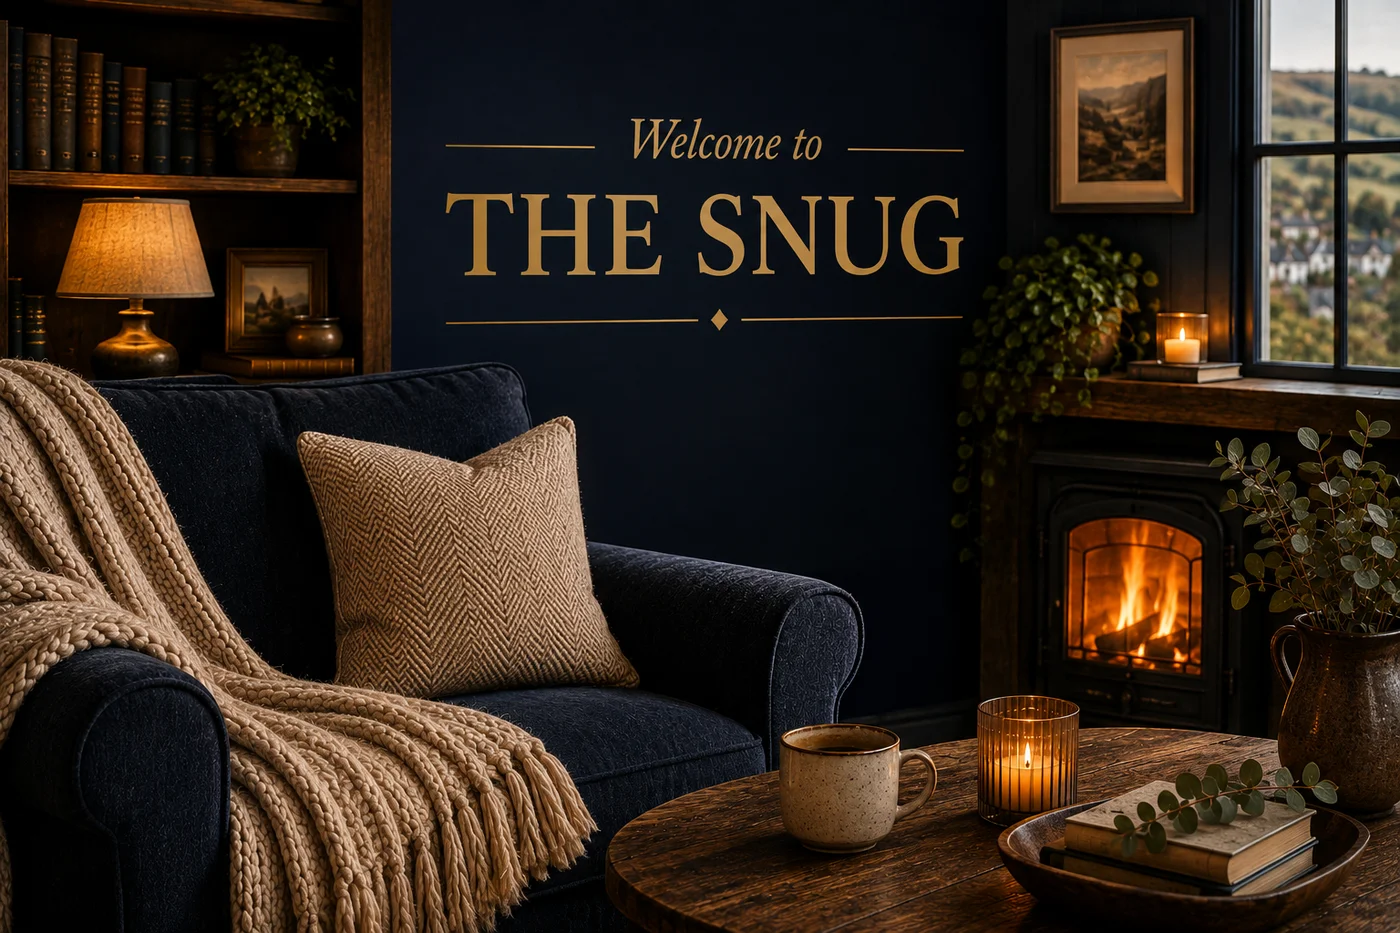
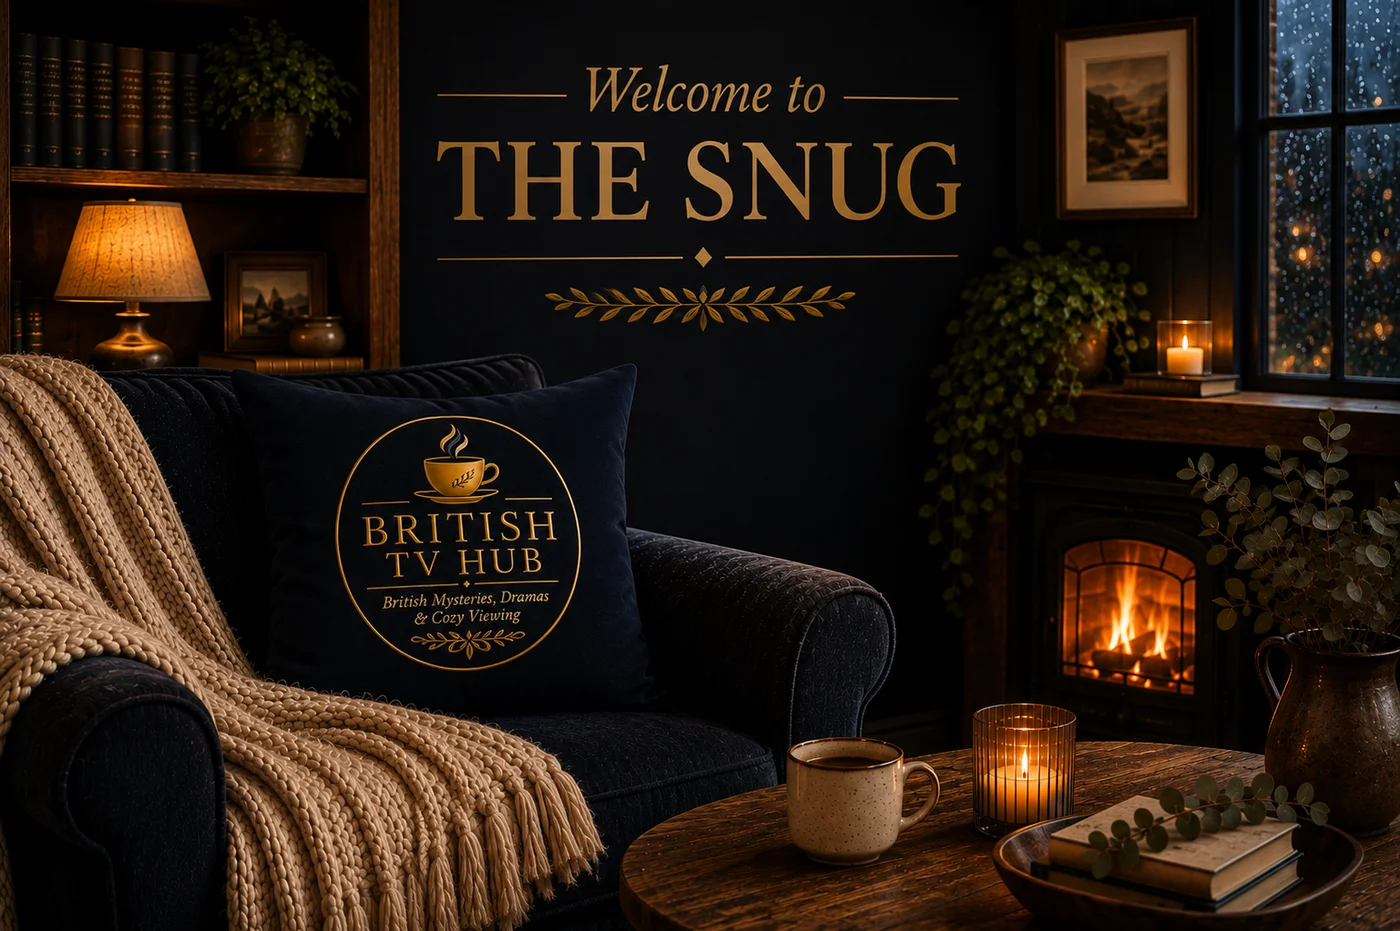
Fix Snug welcome image cropping (object-fit:contain, capped width) and swap in updated version with real British TV Hub pillow branding

diff --git a/what-are-you-watching.html b/what-are-you-watching.html
@@ -94,7 +94,7 @@ gtag('config', 'G-P1L8CVNKS6');
   .wyw-cta-card p{font-family:'Crimson Text',serif;font-size:14.5px;color:var(--text-muted,#9090a8);line-height:1.55;margin:0 0 18px;}
   .wyw-cta-btn{display:inline-block;font-family:'Raleway',sans-serif;font-size:10px;font-weight:600;letter-spacing:1.5px;text-transform:uppercase;color:#1a2135;background:var(--gold);padding:11px 20px;border-radius:2px;text-decoration:none;}
   .wyw-snug-banner{background:var(--navy-mid);border-top:1px solid rgba(201,168,76,0.2);border-bottom:1px solid rgba(201,168,76,0.2);padding:0 0 48px;text-align:center;margin-top:4rem;}
-  .wyw-snug-banner img{width:100%;max-height:420px;object-fit:cover;display:block;margin-bottom:36px;}
+  .wyw-snug-banner img{width:100%;max-width:900px;height:auto;object-fit:contain;display:block;margin:0 auto 36px;background:#0e1424;}
   .wyw-snug-banner h2{font-family:'Playfair Display',serif;font-size:1.7rem;color:var(--cream);margin:0 0 10px;padding:0 24px;}
   .wyw-snug-banner p{font-family:'Crimson Text',serif;font-size:16px;color:var(--text-light);line-height:1.65;max-width:600px;margin:0 auto 20px;padding:0 24px;}
 </style>
